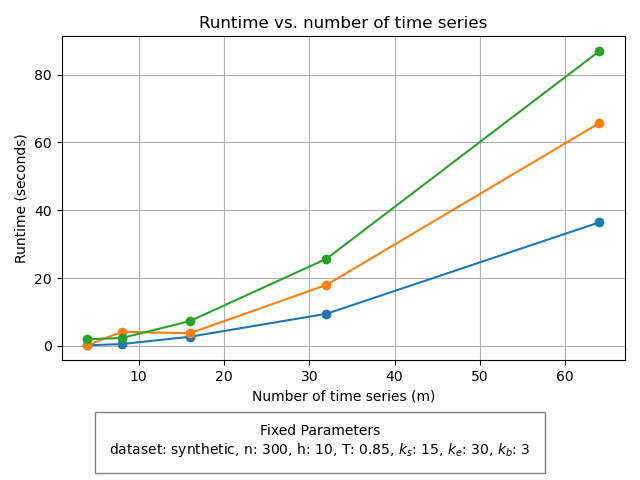
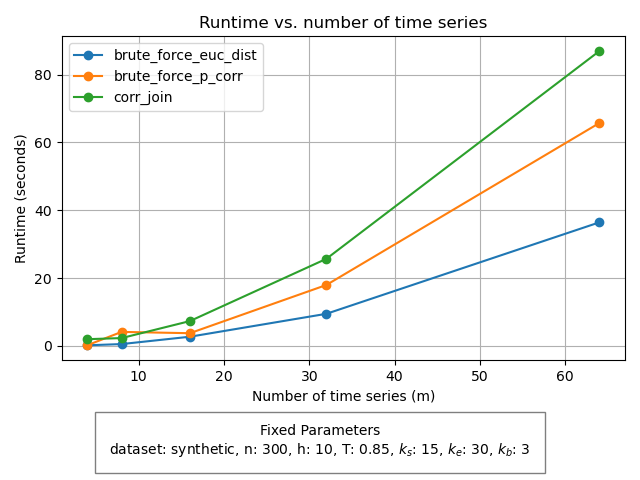
feat: add legend to plots

Changed region(s): [[0.0938, 0.0938, 0.4062, 0.2188]]

diff --git a/code/brute_force_implementation/plot.py b/code/brute_force_implementation/plot.py
@@ -131,6 +131,7 @@ def n_runtime_pr(df, ds_name: str, m: int, params):
   ax1.set_ylabel('Runtime (seconds)')
   ax1.set_title('Runtime vs. Window Size')
   ax1.grid(True)
+  ax1.legend()
 
   # Plot 2: Pruning Rate vs. window size
   for i, algo in enumerate(algorithms):
@@ -141,6 +142,7 @@ def n_runtime_pr(df, ds_name: str, m: int, params):
   ax2.set_ylabel('Pruning Rate')
   ax2.set_title('Pruning Rate vs. Window Size')
   ax2.grid(True)
+  ax2.legend()
 
   # Add description of fixed parameters
   # I need double curly braces because otherwise the f-string thinks it's a
@@ -205,6 +207,7 @@ def h_runtime(df, ds_name: str, m: int, params):
   ax.set_ylabel('Runtime (seconds)')
   ax.set_title('Runtime vs. Stride')
   ax.grid(True)
+  ax.legend()
 
   # Add description of fixed parameters
   # I need double curly braces because otherwise the f-string thinks it's a
@@ -269,6 +272,7 @@ def m_runtime(df, ds_name: str, params):
   ax.set_ylabel('Runtime (seconds)')
   ax.set_title('Runtime vs. number of time series')
   ax.grid(True)
+  ax.legend()
 
   # Add description of fixed parameters
   # I need double curly braces because otherwise the f-string thinks it's a
